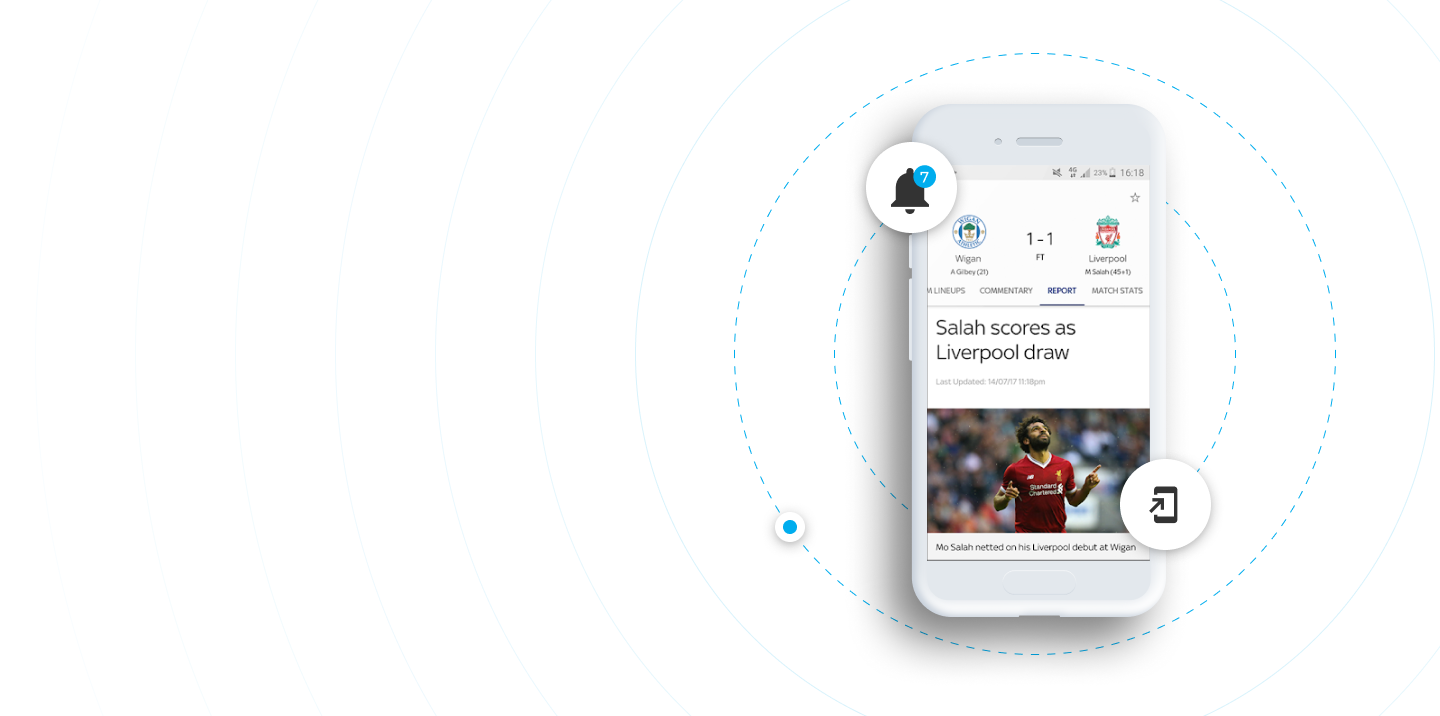
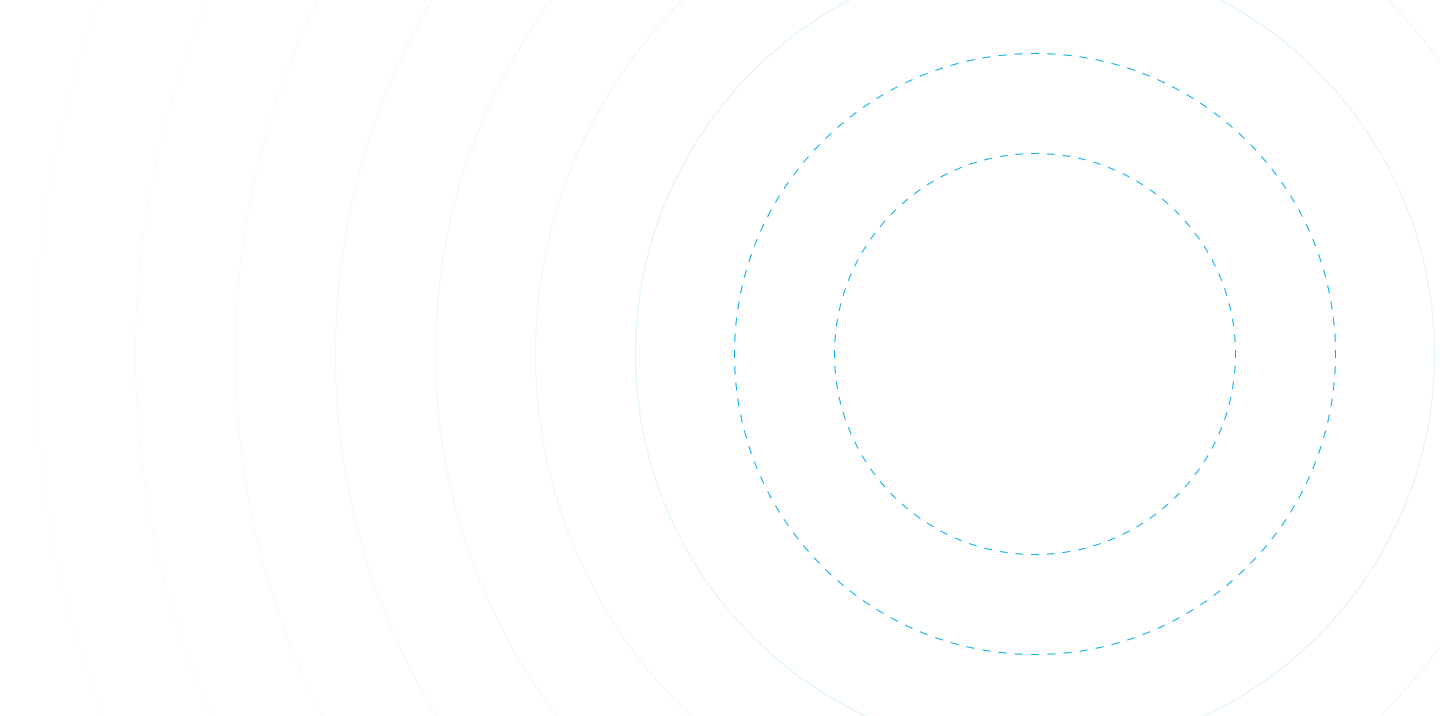
change image

Changed region(s): [[0.5938, 0.1229, 0.8438, 0.9218], [0.5312, 0.7067, 0.5625, 0.7682]]

diff --git a/HW9/style.css b/HW9/style.css
@@ -91,6 +91,8 @@ section {
   right: 0;
   bottom: 0;
   left: 0;
+  line-height: 0;
+  display: block;
 }
 .section-bg img {
   width: 100%;
@@ -212,19 +214,104 @@ section {
   display: flex;
   flex-wrap: wrap;
 }
-.what-it-does_image-box {
+.what-it-does_game-card {
   display: flex;
   flex-direction: column;
   flex-basis: 60%;
-  position: relative;
   margin-top: auto;
   margin-bottom: auto;
 }
 .what-it-does_photo-screen {
+  display: flex;
+  background: #ffffff;
+  border-radius: 4px 4px 0 0;
   max-width: 360px;
   position: relative;
   z-index: 2;
+  padding: 27px 15px 15px 15px;
 }
+.photo-screen_text-box p:first-child {
+  font-weight: 700;
+  line-height: 1.4;
+}
+.photo-screen_text-box p:nth-child(2) {
+  padding-top: 13px;
+  max-width: 77px;
+  font-weight: 500;
+  font-size: 1.1rem;
+  line-height: 1.33;
+  color: #000000;
+}
+.photo-screen_text-box p:nth-child(3) {
+  padding-top: 13px;
+  padding-bottom: 17px;
+  line-height: 1.3;
+  color: #000000;
+}
+.photo-screen_image-box {
+  margin-left: auto;
+  margin-top: auto;
+  margin-bottom: auto;
+}
+.photo-screen_image-box img:first-child {
+  position: relative;
+  right: -19px;
+}
+.photo-screen_image-box img:nth-child(2) {
+  z-index: 54;
+  position: relative;
+}
+.switch-panel {
+  display: flex;
+  align-items: center;
+  max-width: 360px;
+  background: #eeeeee;
+  border-radius: 0px 0px 4px 4px;
+  padding: 13px 18px 11px 15px;
+  z-index: 22;
+}
+
+/*switch*/
+
+.switch-box {
+  display: flex;
+  margin-left: auto;
+}
+input[type="checkbox"] {
+  height: 0;
+  width: 0;
+  visibility: hidden;
+}
+label {
+  cursor: pointer;
+  text-indent: -9999px;
+  width: 32px;
+  height: 13px;
+  background: #979797;
+  display: block;
+  border-radius: 100px;
+  position: relative;
+}
+label:after {
+  content: "";
+  position: absolute;
+  top: -4px;
+  left: 0px;
+  width: 21px;
+  height: 21px;
+  background: #fff;
+  border-radius: 21px;
+  transition: 0.3s;
+}
+input:checked + label {
+  background: #322fe6;
+}
+input:checked + label:after {
+  left: calc(100% - 0px);
+  transform: translateX(-70%);
+}
+/* finish switch */
+
 .what-it-does_video-screen {
   max-width: 360px;
   position: relative;
@@ -260,7 +347,7 @@ section {
     padding-bottom: 22px;
     order: 1;
   }
-  .what-it-does_image-box {
+  .what-it-does_game-card {
     padding: 70px 20px 40px;
     margin-left: -20px;
     margin-right: -20px;
@@ -272,25 +359,19 @@ section {
       ),
       url(./image/section-2/Cristiano-Ronaldo.jpg) 50% -2% no-repeat;
   }
-  .what-it-does_image-box img {
-    max-width: 100%;
-  }
-  .what-it-does_video-screen {
-    margin-left: auto;
-    left: auto;
-  }
-  .what-it-does_photo-screen {
-    margin-right: auto;
-  }
-  .what-it-does_video-screen,
-  .what-it-does_photo-screen {
+  .what-it-does_video-screen img {
     max-width: 73%;
   }
 }
 
 /*get-started-section*/
 
-.get-started h2 {
+.get-started-section {
+  background: url(./image/section-3/bg-section3.png);
+  background-repeat: no-repeat;
+  background-size: contain;
+}
+.get-started-section h2 {
   margin-top: 27px;
 }
 .get-started_text {
@@ -304,12 +385,72 @@ section {
 .get-started_text p:last-child {
   padding-bottom: 54px;
 }
-.get-started .container {
-  z-index: 1;
+.get-started-section .container {
+  flex-wrap: wrap;
 }
+.get-started {
+  min-height: 100vh;
+  display: flex;
+  flex-direction: row;
+  padding-top: 63px;
+  padding-bottom: 63px;
+}
+.get-started_image-box {
+  margin: 0 auto;
+  position: relative;
+}
+.get-started_image-box button {
+  width: 91px;
+  height: 91px;
+  border-radius: 50%;
+  background: #ffffff;
+  box-shadow: 0px 3.13793px 15.6897px rgba(0, 0, 0, 0.25),
+    0px 2.51034px 6.27586px rgba(51, 51, 51, 0.1);
+}
+.get-started_image-box span:nth-child(2) {
+  display: block;
+  line-height: 1.8;
+  width: 24px;
+  height: 24px;
+  border-radius: 50%;
+  background-color: #00adee;
+  color: #fff;
+  position: absolute;
+  top: 20px;
+  right: 21px;
+}
+.bell-total {
+  position: relative;
+}
+.button-box-top {
+  position: absolute;
+  top: 64px;
+  left: 30px;
+}
+.phone-icon {
+  position: absolute;
+  bottom: 150px;
+  right: -17px;
+}
+
 @media (max-width: 720px) {
-  .get-started .section-bg {
-    position: static;
+  .get-started-section {
+    background: none;
+  }
+  .get-started .content-box {
+    order: 5;
+    justify-content: center;
+    text-align: center;
+  }
+  .get-started .get-started_image-box {
+    order: 6;
+    flex-wrap: wrap;
+    background: url(./image/section-3/only-ellipse.png);
+    background-repeat: no-repeat;
+    background-size: cover;
+  }
+  .get-started_image-box img {
+    max-width: 300px;
   }
 }
 
@@ -559,6 +700,10 @@ section {
   }
   .footer-item-box .flex-box {
     flex-wrap: nowrap;
+  }
+  .footer-social-box img:first-child {
+    margin-left: 0;
+    margin-right: 17px;
   }
 }
 @media (max-width: 450px) {

diff --git a/HW9/index.html b/HW9/index.html
@@ -44,9 +44,24 @@
 
     <section class="what-it-does-wrapper">
        <div class="what-it-does container">
-        <div class="what-it-does_image-box">
+        <div class="what-it-does_game-card">
           <div class="what-it-does_photo-screen">
-            <img src="./image/section-2/arsenal-vs-chelsea.png" alt="arsenal vs chelsea "/>
+            <div class="photo-screen_text-box">
+              <p>Sat, 12:35pm</p>
+              <p>Arsenal v Chelsea</p>
+              <p>Friendly Match</p>
+            </div>
+            <div class="photo-screen_image-box">
+              <img src="./image/section-2/arsenal-emblem.png" alt="arsenal emblem">
+              <img src="./image/section-2/chelsea-emblem.png" alt="chelsea emblem">
+            </div>
+          </div>
+          <div class="switch-panel">
+            <p>Turn on all match notifications</p>
+            <div class="switch-box">
+              <input type="checkbox" id="switch" />
+              <label for="switch"></label>
+            </div>
           </div>
           <div class="what-it-does_video-screen">
             <img src="./image/section-2/video-screen.png" alt="video screen" />
@@ -74,8 +89,8 @@
 
     <!-- Get started section -->
 
-    <section class="get-started">
-      <div class="container section-box">
+    <section class="get-started-section">
+      <div class="get-started container">
         <div class="content-box">
           <a class="link-brand-colour" href="#">GET STARTED</a>
           <h2>User-friendly Interface</h2>
@@ -93,11 +108,29 @@
           </div>
           <a class="link-brand-colour" href="#">Learn more</a>
         </div>
+        <div class="get-started_image-box">
+          <img src="./image/section-3/only-phone.png" alt="">
+          <div class="button-box-top">
+          <button class="bell-total"> 
+              <svg width="38" height="46" viewBox="0 0 38 46" fill="none" xmlns="http://www.w3.org/2000/svg">
+                <path
+                  d="M19 46C21.6125 46 23.75 43.8769 23.75 41.2821H14.25C14.25 43.8769 16.3638 46 19 46ZM33.25 31.8462V20.0513C33.25 12.8092 29.355 6.74667 22.5625 5.14256V3.53846C22.5625 1.58051 20.9713 0 19 0C17.0287 0 15.4375 1.58051 15.4375 3.53846V5.14256C8.62125 6.74667 4.75 12.7856 4.75 20.0513V31.8462L0 36.5641V38.9231H38V36.5641L33.25 31.8462Z"
+                  fill="#333333" />
+              </svg>
+                 <span>7</span>
+                </button>
+                </div>
+                <div class="phone-icon">
+             <button>
+            <svg width="29" height="38" viewBox="0 0 29 38" fill="none" xmlns="http://www.w3.org/2000/svg">
+              <path
+                d="M25.0342 0.462712L8.36751 0.446045C6.53418 0.446045 5.03418 1.94604 5.03418 3.77938V8.77938H8.36751V7.11271H25.0342V30.446H8.36751V28.7794H5.03418V33.7794C5.03418 35.6127 6.53418 37.1127 8.36751 37.1127H25.0342C26.8675 37.1127 28.3675 35.6127 28.3675 33.7794V3.77938C28.3675 1.94604 26.8675 0.462712 25.0342 0.462712ZM11.7008 23.7794H15.0342V12.1127H3.36751V15.446H9.35085L0.0341797 24.7627L2.38418 27.1127L11.7008 17.796V23.7794Z"
+                fill="#333333" />
+            </svg>
+          </button>
+          </div>
+        </div>
       </div>
-      <picture class="section-bg">
-          <source srcset="./image/section-3/bg-section3.png" media="(min-width: 721px)">
-          <img src="./image/section-3/mobile/phone_1.png" alt="MDN">
-      </picture>
     </section>
 
     <!-- Features-section -->
@@ -632,9 +665,9 @@
           </ul>
         </div>
         <div class="footer-social-box flex-box">
-            <img src="./image/footer/twitter-logo.png" alt="" />
-            <img src="./image/footer/facebook-logo.png" alt="" />
-            <img src="./image/footer/instagram-logo.png" alt="" />
+           <a href="#"><img src="./image/footer/twitter-logo.png" alt="" /></a>
+           <a href="#"><img src="./image/footer/facebook-logo.png" alt="" /></a>
+           <a href="#"><img src="./image/footer/instagram-logo.png" alt="" /></a>
           </div>
         </div>
       </div>
